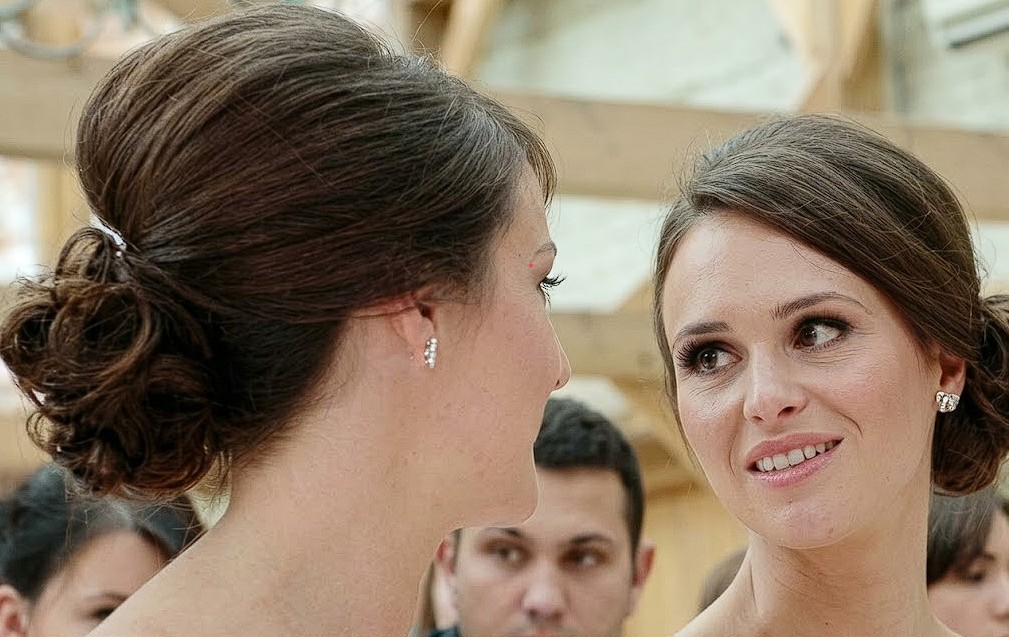
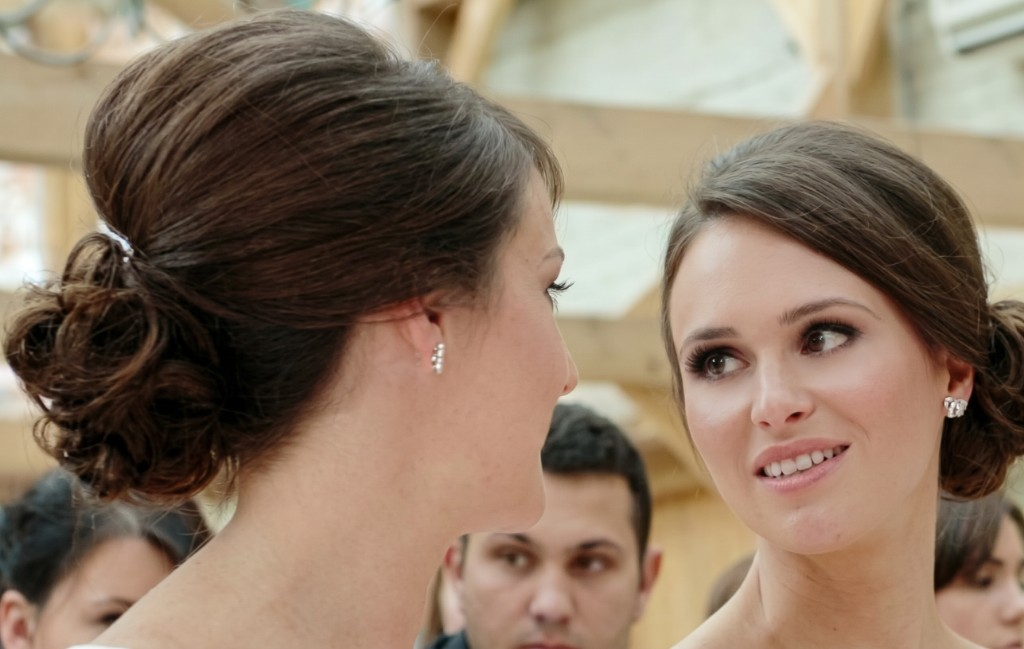
Swap in updated gallery photos for men, bridal, and client looks.

diff --git a/index.html b/index.html
@@ -2490,18 +2490,18 @@
         </div>
         <div class="gallery">
             <div class="gallery-track" id="galleryTrack">
-            <div class="gallery-item"><img src="imgs/gallery/mens-style.png" alt="Men's styled cut and finish"><div class="gallery-overlay"><i class="ri-image-line gallery-icon"></i></div></div>
+            <div class="gallery-item"><img src="imgs/gallery/mens-style.jpg" alt="Men's styled cut and finish"><div class="gallery-overlay"><i class="ri-image-line gallery-icon"></i></div></div>
             <div class="gallery-item"><img src="imgs/gallery/glamour-updo.png" alt="Glamour updo styling"><div class="gallery-overlay"><i class="ri-image-line gallery-icon"></i></div></div>
-            <div class="gallery-item"><img src="imgs/gallery/client-cut.png" alt="Client haircut and colour"><div class="gallery-overlay"><i class="ri-image-line gallery-icon"></i></div></div>
+            <div class="gallery-item"><img src="imgs/gallery/client-cut.jpg" alt="Client haircut and colour"><div class="gallery-overlay"><i class="ri-image-line gallery-icon"></i></div></div>
             <div class="gallery-item gallery-item--video" data-video="imgs/instagram/DJKIXuytRxm.mp4"><img src="imgs/instagram/DJKIXuytRxm.jpg" alt="JOJO &amp; FLO Instagram reel"><div class="gallery-overlay"><i class="ri-play-circle-line gallery-icon" aria-hidden="true"></i></div></div>
-            <div class="gallery-item"><img src="imgs/gallery/bridal-bun.png" alt="Bridal low bun updo"><div class="gallery-overlay"><i class="ri-image-line gallery-icon"></i></div></div>
+            <div class="gallery-item"><img src="imgs/gallery/bridal-bun.jpg" alt="Bridal low bun updo"><div class="gallery-overlay"><i class="ri-image-line gallery-icon"></i></div></div>
             <div class="gallery-item"><img src="imgs/gallery/couple-style.jpg" alt="Couple formal hairstyles"><div class="gallery-overlay"><i class="ri-image-line gallery-icon"></i></div></div>
             <div class="gallery-item gallery-item--video" data-video="imgs/instagram/DGgWH7LtDlN.mp4"><img src="imgs/instagram/DGgWH7LtDlN.jpg" alt="JOJO &amp; FLO Instagram reel"><div class="gallery-overlay"><i class="ri-play-circle-line gallery-icon" aria-hidden="true"></i></div></div>
             <div class="gallery-item"><img src="imgs/gallery/wedding-updos.jpg" alt="Wedding party updos"><div class="gallery-overlay"><i class="ri-image-line gallery-icon"></i></div></div>
             <div class="gallery-item gallery-item--video" data-video="imgs/instagram/DGgMgg7tkqr.mp4"><img src="imgs/instagram/DGgMgg7tkqr.jpg" alt="JOJO &amp; FLO Instagram reel"><div class="gallery-overlay"><i class="ri-play-circle-line gallery-icon" aria-hidden="true"></i></div></div>
-            <div class="gallery-item"><img src="imgs/gallery/mens-style.png" alt="Men's styled cut and finish"><div class="gallery-overlay"><i class="ri-image-line gallery-icon"></i></div></div>
+            <div class="gallery-item"><img src="imgs/gallery/mens-style.jpg" alt="Men's styled cut and finish"><div class="gallery-overlay"><i class="ri-image-line gallery-icon"></i></div></div>
             <div class="gallery-item"><img src="imgs/gallery/glamour-updo.png" alt="Glamour updo styling"><div class="gallery-overlay"><i class="ri-image-line gallery-icon"></i></div></div>
-            <div class="gallery-item"><img src="imgs/gallery/client-cut.png" alt="Client haircut and colour"><div class="gallery-overlay"><i class="ri-image-line gallery-icon"></i></div></div>
+            <div class="gallery-item"><img src="imgs/gallery/client-cut.jpg" alt="Client haircut and colour"><div class="gallery-overlay"><i class="ri-image-line gallery-icon"></i></div></div>
             </div>
         </div>
         <div class="gallery-lightbox" id="galleryLightbox" role="dialog" aria-modal="true" aria-label="Gallery media">
